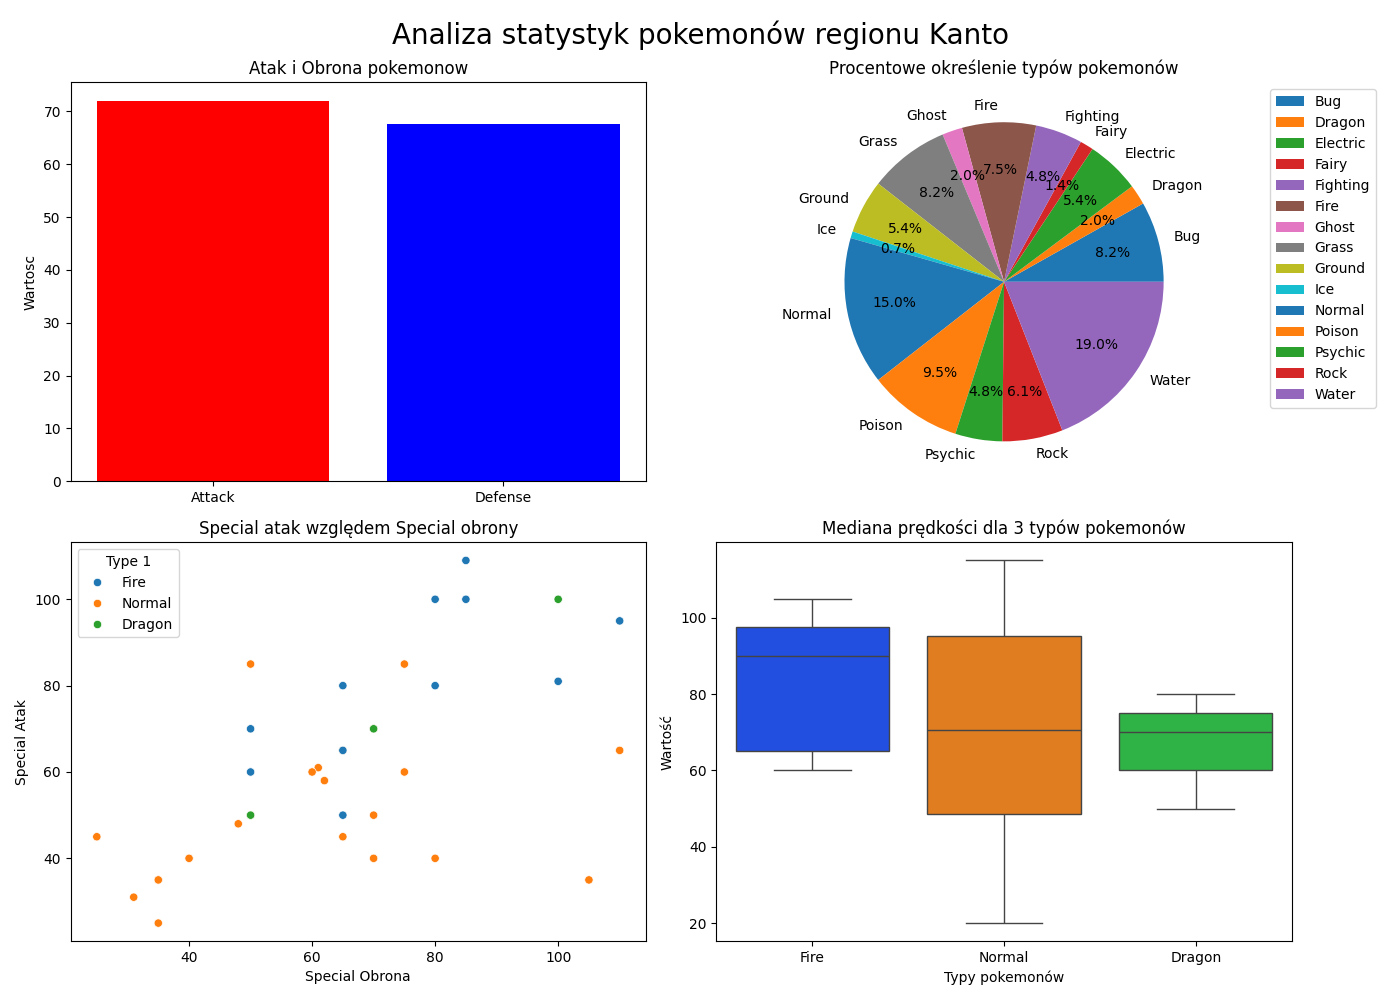
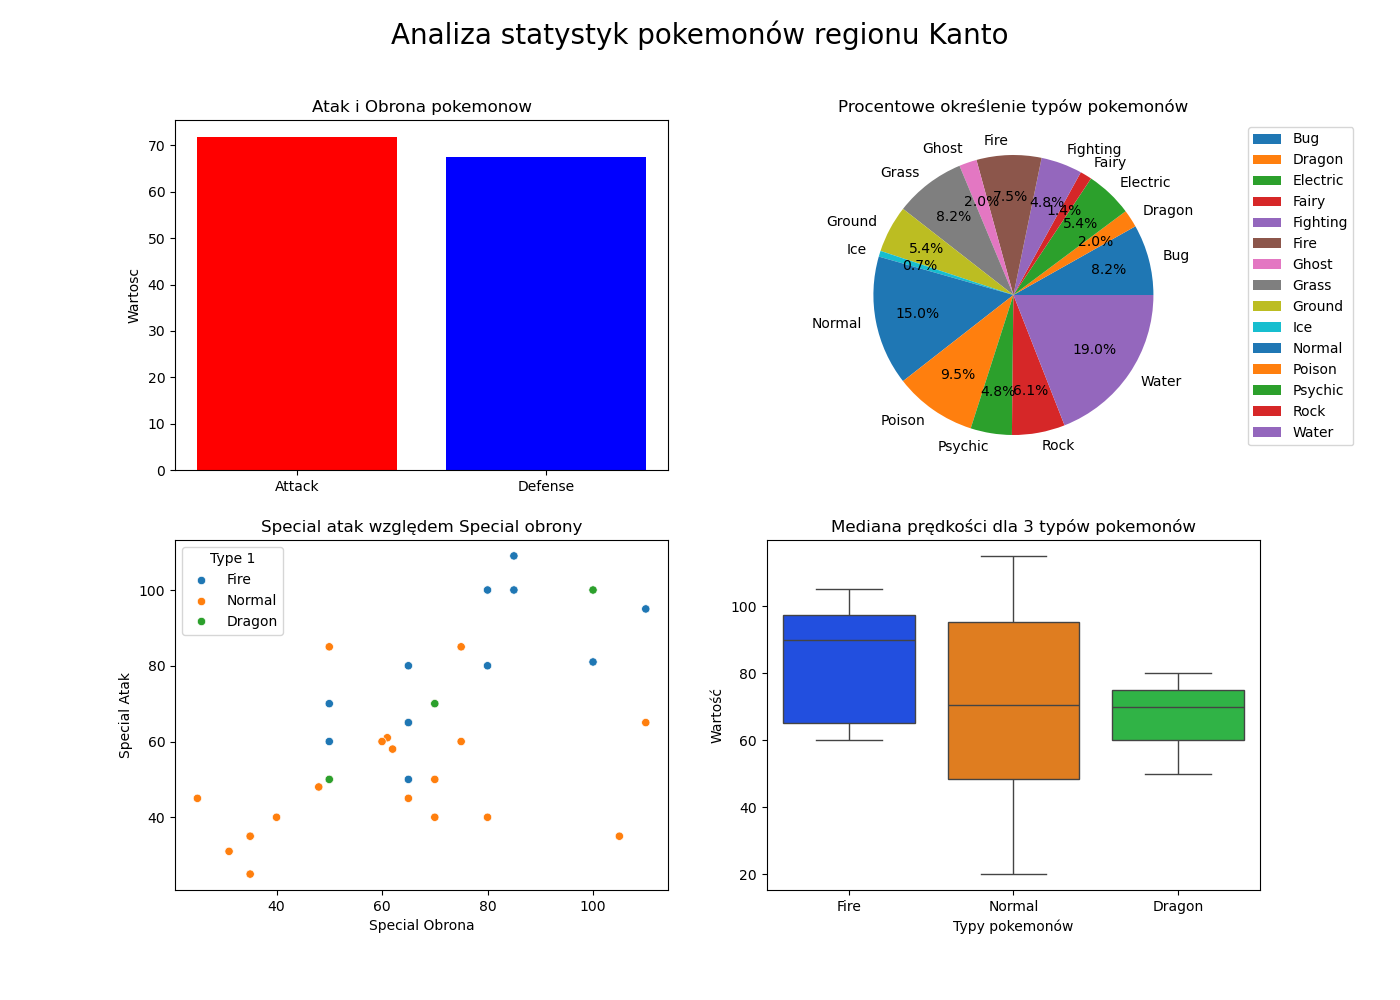
25_05_23

diff --git a/Cwiczenie_na_kolos_2/cw11.py b/Cwiczenie_na_kolos_2/cw11.py
@@ -9,13 +9,12 @@ from matplotlib.pyplot import tight_layout
 #1. Załaduj plik CSV jako Data Frame i wyświetl jego 4 pierwsze wiersze. Pamiętaj, przy wczytaniu zbioru Pokemon.csv parametr encoding należy ustawić na wartość latin.
 
 df = pd.read_csv('./cw10dane/Pokemon.csv', index_col=0, encoding='latin')
-print(df.head())
+print(df.head(4))
 
 #2. Zgrupuj dane na podstawie wartości kolumny Type 1 następnie oblicz średnią dla wartość kolumny Defense dla każdej grupy.
 
 srednia = df.groupby('Type 1')['Defense'].mean()
 print(srednia.head())
-
 
 #3. Utwórz nową kolumnę o nazwie Średnia obrona wg. Typu 1, gdzie dla każdego pokemona umieścisz obliczoną wcześniej średnią wartość obrony dla typu 1 (uwzględniając typ pokemona).
 
@@ -48,6 +47,7 @@ print(rows)
 #8. Zapisz zmodyfikowany Data Frame do nowego pliku modified_pokemon.csv.
 df3.to_csv('modified_pokemon.csv')
 
+
 #WYKRESY
 #1. Na jednym płótnie (figure) wyświetl 4 różne wykresy (w dwóch rzędach i dwóch kolumnach). Ustaw wielkość płótna na (14,10).
 plt.figure(figsize=(14,10))
@@ -66,7 +66,7 @@ plt.subplot(2,2,2)
 
 df2 = df.groupby('Type 1')['Type 1'].count()
 
-plt.pie(df2, autopct='%1.1f%%',pctdistance=0.7 ,labels=df2.index)
+plt.pie(df2, autopct='%1.1f%%', pctdistance=0.7 ,labels=df2.index)
 
 plt.legend(df2.index, loc='upper left', bbox_to_anchor=(1.15, 1))
 
@@ -85,7 +85,7 @@ sns.scatterplot(data= df4, x = x1, y = x2, hue='Type 1')
 
 plt.subplot(2,2,4)
 color = ['Red', 'Green', 'Blue']
-sns.boxplot(data= df4, x='Type 1', y='Speed',palette='bright', hue='Type 1')
+sns.boxplot(data= df4, x='Type 1', y='Speed', palette='bright', hue='Type 1')
 
 #7. Dla zwiększenia czytelności wykresów, do każdego dodaj opisy osi oraz tytuły wykresów.
 
@@ -107,6 +107,6 @@ plt.ylabel('Wartość')
 plt.title('Mediana prędkości dla 3 typów pokemonów')
 
 #8. Zapisz wykres do pliku .png.
-plt.tight_layout()
 plt.savefig('./WykresZadanie.png')
+
 plt.show()
